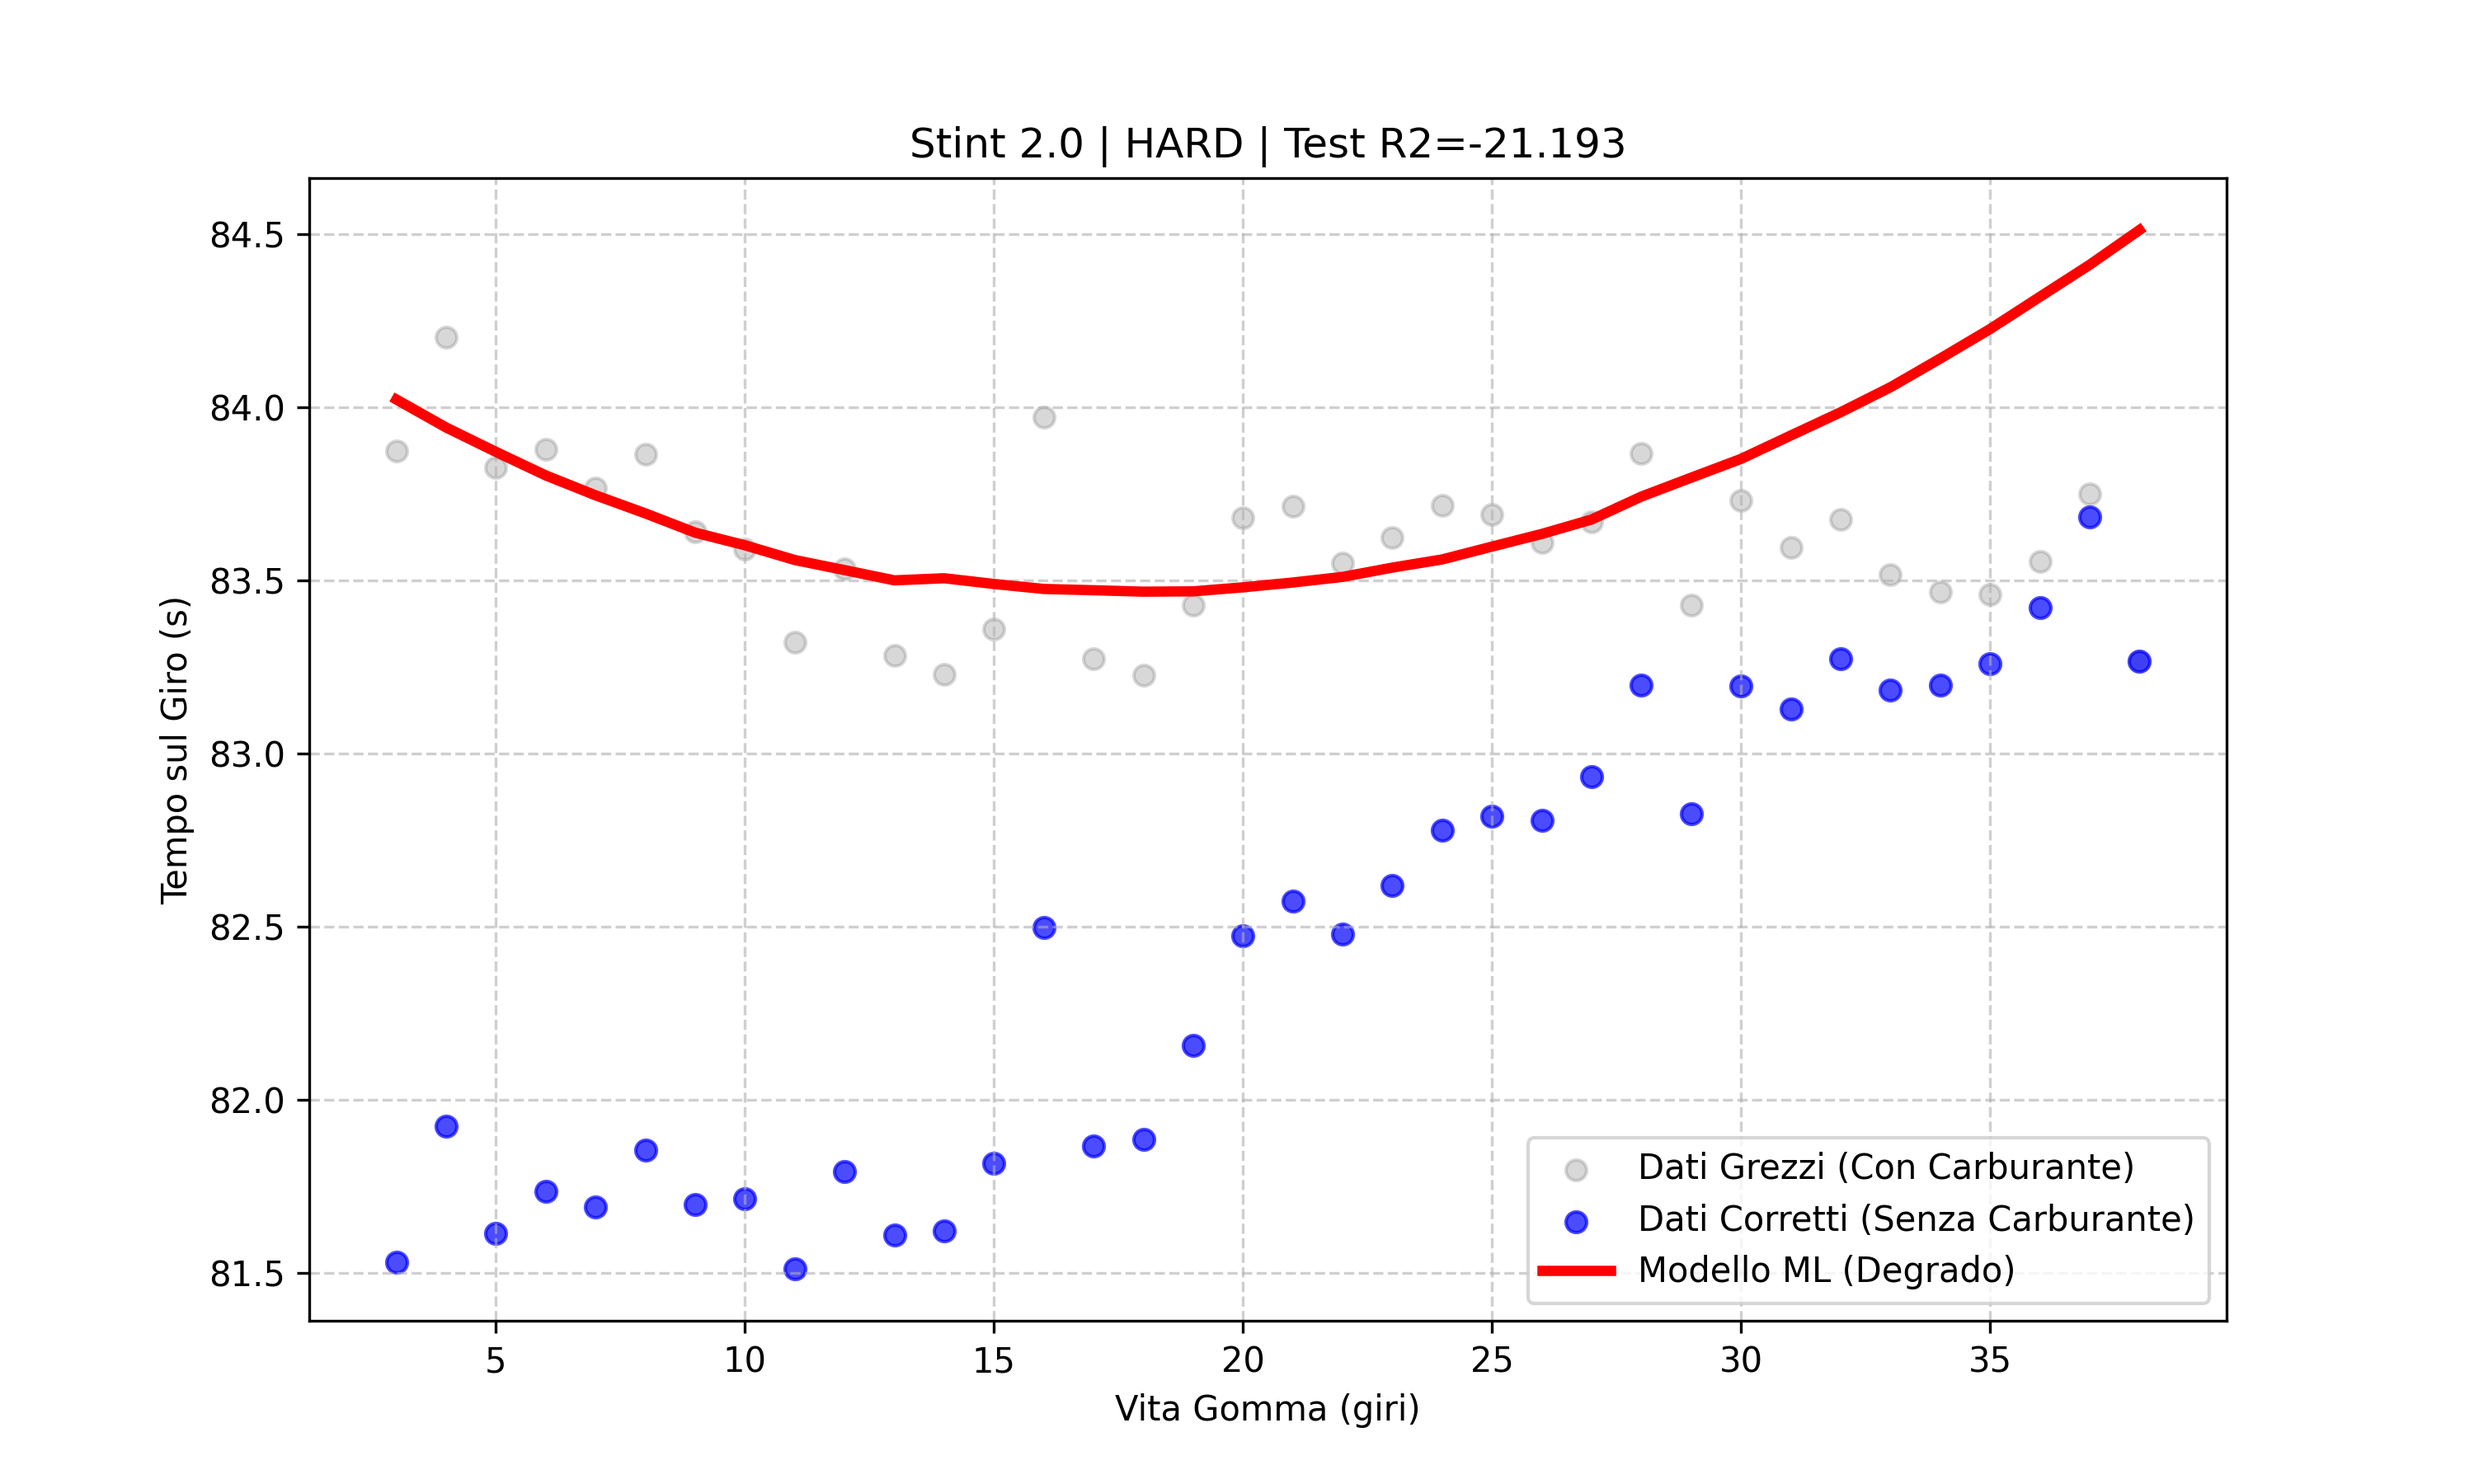
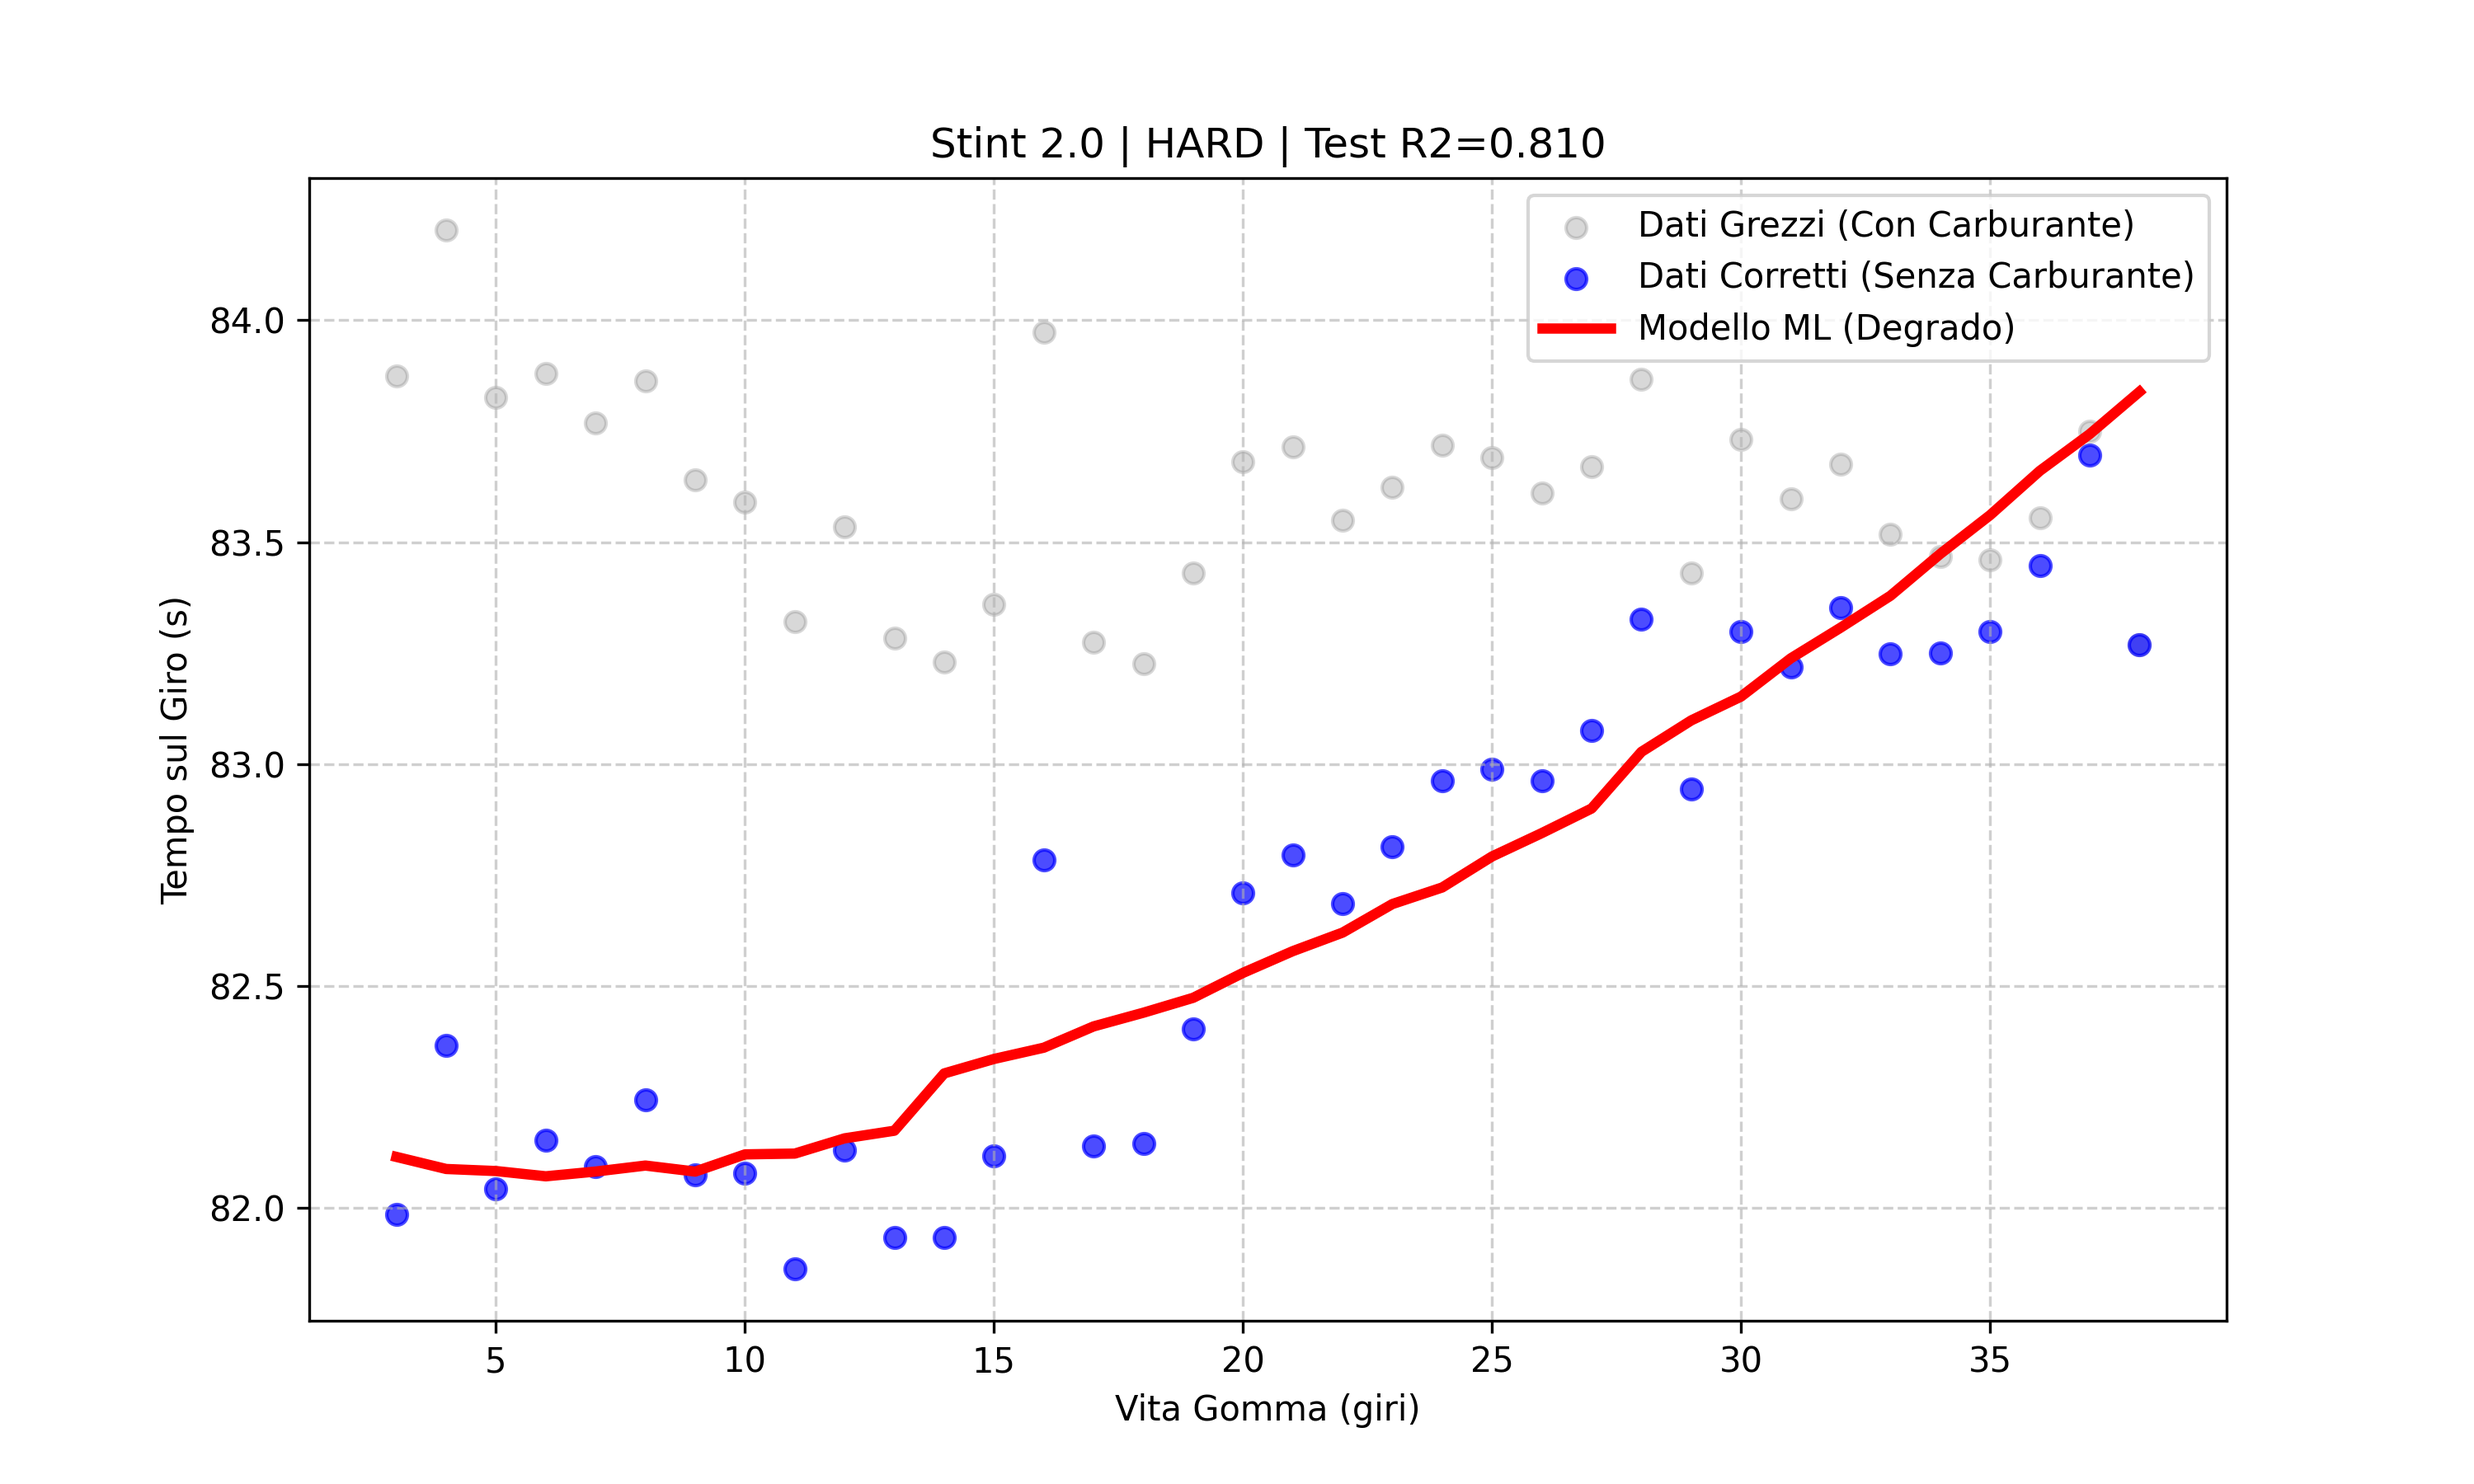
shuffle true -> R2 positive

diff --git a/src/modelTraining.py b/src/modelTraining.py
@@ -30,7 +30,7 @@ def train_degradation_model(df):
 
     # 3. Suddivisione cronologica Train/Test (75% - 25%)
     # Addestriamo sulla prima parte dello stint per prevedere il finale.
-    X_train, X_test, y_train, y_test = train_test_split(X, y, test_size=0.25, shuffle=False)
+    X_train, X_test, y_train, y_test = train_test_split(X, y, test_size=0.25, shuffle=True)
 
     # 4. Addestramento del modello Ridge regolarizzato
     model = Ridge(alpha=1.0)
